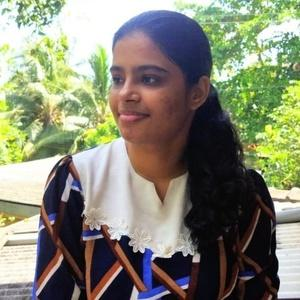
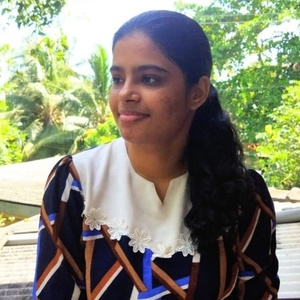
Image resize algorithm  was updated to avoid unnecessary diff changes

diff --git a/python_scripts/resize_student_images.py b/python_scripts/resize_student_images.py
@@ -21,7 +21,11 @@ def run():
                     print(f"{imagePath}, width = {width:5}, height = {height:5}, size = {size:4.4}kb")
                     resizeValue = 300/width
                     new_image = image.resize((int(width*resizeValue), int(height*resizeValue)))
-                    new_image.save(imagePath)
+
+                    if(not (int(width*resizeValue) == width and int(height*resizeValue) == height)):
+                        new_image.save(imagePath)
+                    else:
+                        print("No resize required")
             except:
                 print(f"Failed to resize image {imagePath}")
 
